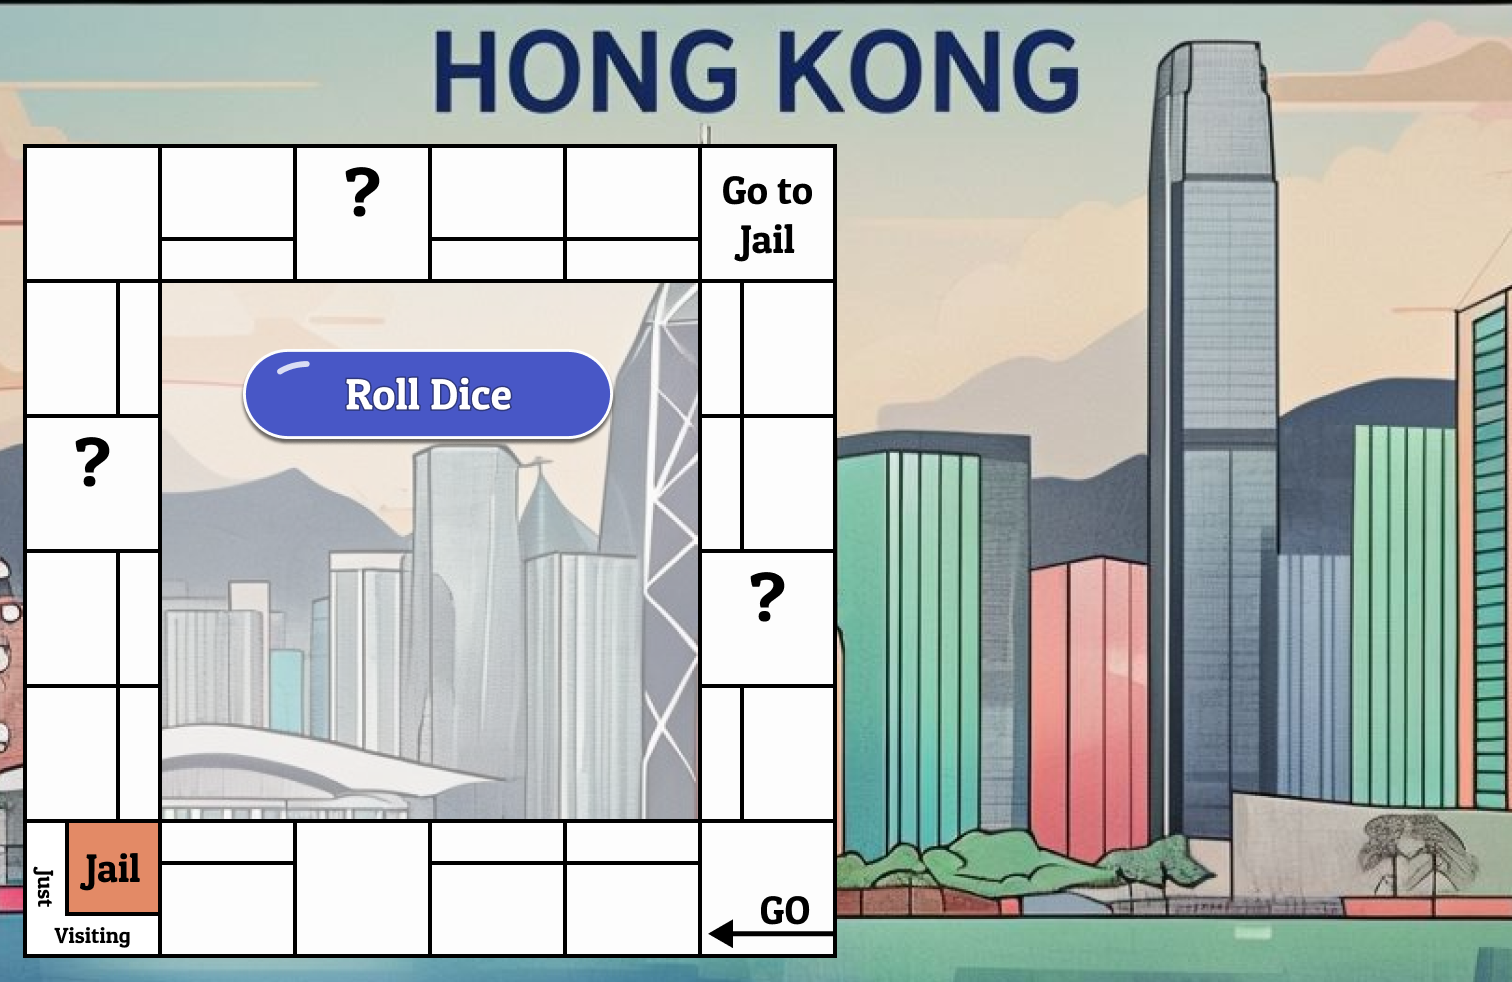
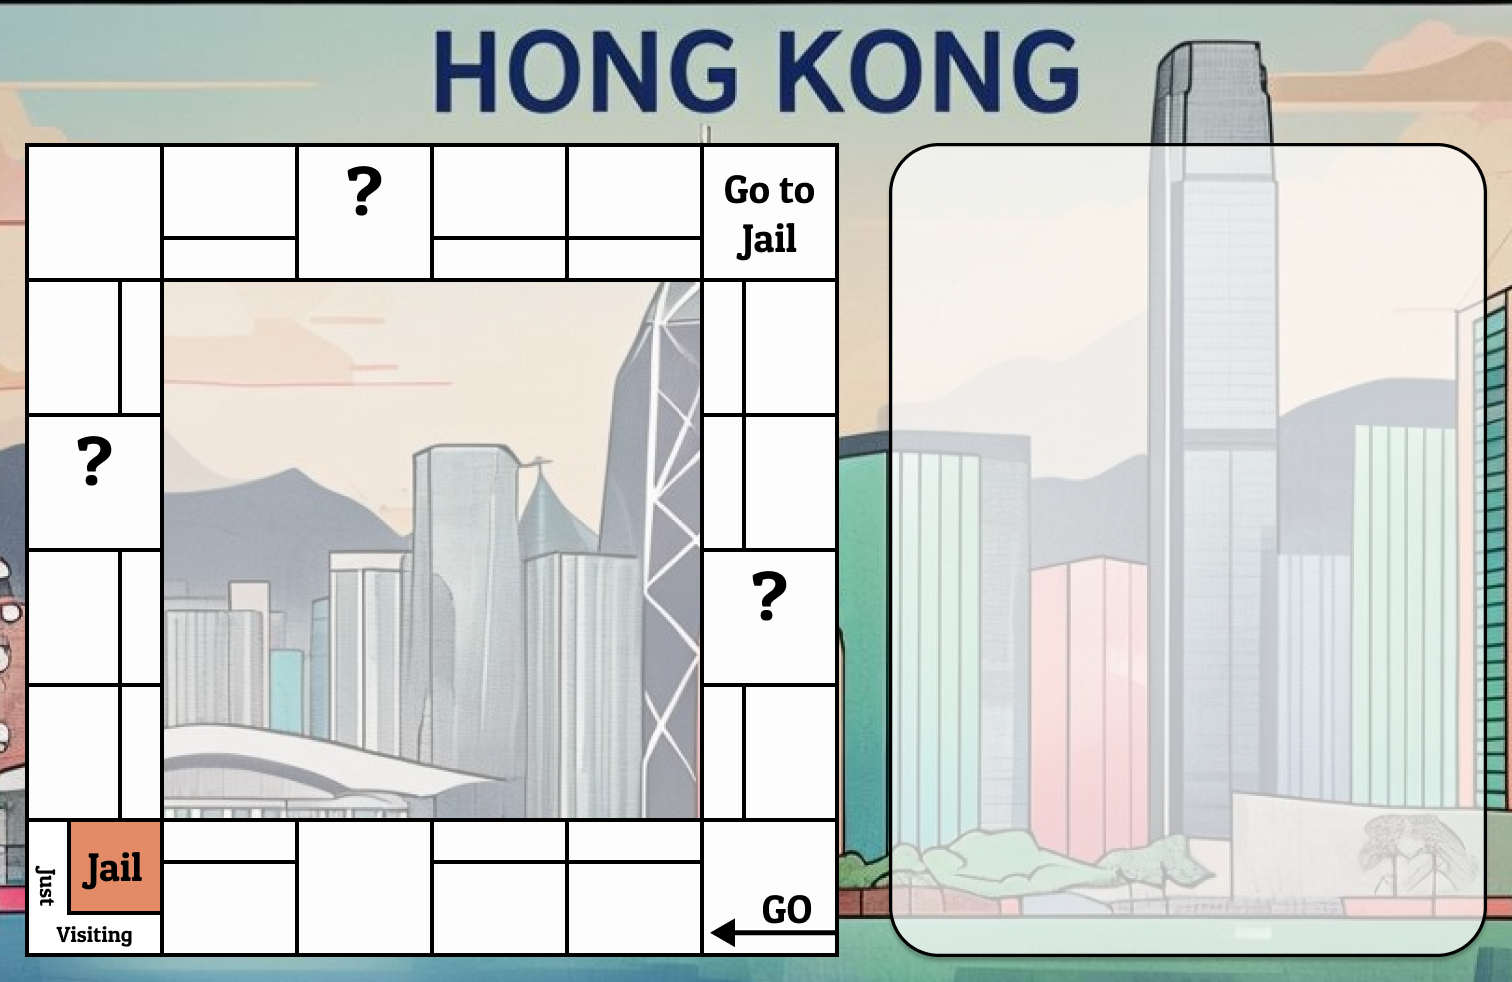
gameplay frame updates

diff --git a/src/View/DisplayManager.py b/src/View/DisplayManager.py
@@ -30,14 +30,20 @@ class DisplayManager:
         canvas.create_image(0, 0, anchor="nw", image=background)
         return canvas
 
+    @staticmethod
+    def calc_button_dim(button_image):
+        return button_image.width(), button_image.height()
+
 
 class GameplayFrame(DisplayManager):
-    def __init__(self, gui, controller):
-        # New Gameplay frame images
+    def __init__(self, gui):
         super().__init__(gui)
-        self.controller = controller # gets the game controller to retrieve information to setup the board
+
+        # New Gameplay frame images
         self.new_gameplay_frame_background = tk.PhotoImage(
             file=os.path.join(assets_base_path, "gameplay_frame/gameplay_frame_background.png"))
+        self.roll_dice_image = tk.PhotoImage(file = os.path.join(assets_base_path, "gameplay_frame/roll_dice.png"))
+        self.save_quit_image = tk.PhotoImage(file = os.path.join(assets_base_path, "gameplay_frame/save_quit.png"))
 
         # Gameboard tiles colors empty list, will get loaded from the Gameboard model
         self.tile_colors = []
@@ -45,35 +51,41 @@ class GameplayFrame(DisplayManager):
         # Tile color coordinates from anchor (reference point) "NW" corner
         self.__tile_color_coord = [
             None,
-            [563, 819],
-            [428, 819],
+            [565, 818],
+            [430, 818],
             None,
-            [158, 819],
+            [160, 818],
             None,
-            [116, 684],
-            [116, 549],
+            [118, 683],
+            [118, 548],
             None,
-            [116, 279],
+            [118, 278],
             None,
-            [563, 237],
+            [565, 236],
             None,
-            [428, 237],
-            [158, 237],
+            [430, 236],
+            [160, 236],
             None,
-            [698, 279],
-            [698, 414],
+            [700, 278],
+            [700, 413],
             None,
-            [698, 684]
+            [700, 683]
         ]
 
 # ------------------------------------# Game Play Frame #------------------------------------#
 
+    def set_color(self, pos, color):
+        self.tile_colors[pos] = color
+
+    def get_color_coord(self, pos):
+        return self.__tile_color_coord[pos]
+
+    # from the gameboard information loads the appropriate colors in the game frame
     def load_tile_colors(self):
         for i in range(0,20):
-            has_color = self.__tile_color_coord[i]
-            self.tile_colors.append(None) # initializes the empty position
-            if has_color:   # if it has color then pulls the color from the gameboard and modifies the new entry
-                self.modify_tile_color(self.controller.board.tiles[i].get_color(), i)
+            color = self.tile_colors[i]
+            if color:
+                self.modify_tile_color(color, i)
 
     # gets the information from the lists above and display all the tiles colors
     def overlay_tile_colors(self, canvas):
@@ -85,10 +97,47 @@ class GameplayFrame(DisplayManager):
                 tile_color = self.tile_colors[i]
                 canvas.create_image(x_pos, y_pos, anchor="nw", image=tile_color)
 
+    # rolls the dice
+    def roll_dice(self):
+        print("Rolling dice...")
+
+    def save_quit(self):
+        print("Saving quit...")
+
+    # called to set up the entire gameplay_frame
     def setup_new_gameplay_frame(self, frame):
         canvas = self.clear_widgets_create_canvas_set_background(frame, self.new_gameplay_frame_background)
+
+        # loads tile colors and displays them
         self.load_tile_colors()
         self.overlay_tile_colors(canvas)
+
+        # buttons dimensions
+        roll_dice_width, roll_dice_height = self.calc_button_dim(self.roll_dice_image)
+        save_quit_width, save_quit_height = self.calc_button_dim(self.save_quit_image)
+
+        # roll_dice_button & clickable area
+        # position based on center
+        roll_dice_x_pos = self.gui.image_width * 2 / 7
+        roll_dice_y_pos = self.gui.image_height * 2 / 5
+        roll_dice_button = canvas.create_image(roll_dice_x_pos, roll_dice_y_pos, anchor="center", image=self.roll_dice_image)
+        roll_dice_clickable_area = canvas.create_rectangle(
+            (roll_dice_x_pos - roll_dice_width // 2), (roll_dice_y_pos - roll_dice_height // 2),
+            (roll_dice_x_pos + roll_dice_width // 2), (roll_dice_y_pos + roll_dice_height // 2),
+            outline="", fill=""
+        )
+        canvas.tag_bind(roll_dice_clickable_area, "<Button-1>", lambda e:self.roll_dice())
+
+        # save_quit button & clickable area
+        save_quit_x_pos = self.gui.image_width * 10 / 14
+        save_quit_y_pos = self.gui.image_height * 9 / 10
+        save_quit_button = canvas.create_image(save_quit_x_pos, save_quit_y_pos, anchor="center", image=self.save_quit_image)
+        save_quit_clickable_area = canvas.create_rectangle(
+            (save_quit_x_pos - roll_dice_width // 2), (save_quit_y_pos - roll_dice_height // 2),
+            (save_quit_x_pos + roll_dice_width // 2), (save_quit_y_pos + roll_dice_height // 2),
+            outline="", fill=""
+        )
+        canvas.tag_bind(save_quit_clickable_area, "<Button-1>", lambda e:self.save_quit())
         return canvas
 
     #------------------------#
@@ -391,6 +440,8 @@ class NewGameFrame(DisplayManager):
         self.active_widgets.append(self.error_labels[idx])  # Track the label for later removal
 
     def check_and_start_game(self, input_handler):
+        self.gui.show_game_play_frame()  # TODO uncomment this line later
+
         # Retrieve all player names
         player_names = input_handler.get_all_player_names()
 
@@ -483,10 +534,10 @@ class MainMenuFrame(DisplayManager):
         button_y_positions = [self.gui.image_height * 0.55, self.gui.image_height * 0.70, self.gui.image_height * 0.85]
 
         # Calculate dimensions for each button to set clickable areas
-        new_game_width, new_game_height = self.new_game_image.width(), self.new_game_image.height()
-        load_game_width, load_game_height = self.load_game_image.width(), self.load_game_image.height()
-        exit_width, exit_height = self.exit_image.width(), self.exit_image.height()
-        info_width, info_height = self.info_image.width(), self.info_image.height()
+        new_game_width, new_game_height = self.calc_button_dim(self.new_game_image)
+        load_game_width, load_game_height = self.calc_button_dim(self.load_game_image)
+        exit_width, exit_height = self.calc_button_dim(self.exit_image)
+        info_width, info_height = self.calc_button_dim(self.info_image)
 
         # "New Game" button and clickable area
         new_game_button = canvas.create_image(self.gui.image_width // 2, button_y_positions[0],

diff --git a/src/View/GUI.py b/src/View/GUI.py
@@ -32,7 +32,7 @@ class GUI(tk.Tk):
         self.new_game_frame = NewGameFrame(self)
         self.load_game_frame = LoadGameFrame(self)
         #TODO <Remove the controller object from the GameplayFrame>
-        #self.gameplay_frame = GameplayFrame(self, controller)
+        self.gameplay_frame = GameplayFrame(self)
         self.input_handler = InputHandler()
 
         # Set up frames
@@ -41,7 +41,6 @@ class GUI(tk.Tk):
         self.show_new_game_frame()
         self.show_edit_board_frame()
         self.show_load_game_frame()
-        #self.show_game_play_frame() TODO uncomment this line later
 
         # Initially show the main menu
         self.show_frame("main_menu")
@@ -80,14 +79,10 @@ class GUI(tk.Tk):
     def show_game_play_frame(self):
         frame = tk.Frame(self)
         self.frames["gameplay"] = frame
-        #self.game_canvas = self.gameplay_frame.setup_new_gameplay_frame(frame) TODO uncomment this line later
+        self.game_canvas = self.gameplay_frame.setup_new_gameplay_frame(frame) #TODO uncomment this line later
 
     def show_frame(self, frame_name):
         for frame in self.frames.values():
             frame.place_forget()
         self.frames[frame_name].place(x=0, y=0, width=self.image_width, height=self.image_height)
 
-# Run the GUI
-gui = GUI()
-#controller = GameController(gui)
-#gui.mainloop()

diff --git a/src/Controller/GameController.py b/src/Controller/GameController.py
@@ -21,6 +21,9 @@ class GameController:
         self.input_handler = InputHandler()
         self.click_var = tk.StringVar()
 
+        # button_config
+        self.pass_color_information()
+
     def get_player_list(self):
         return self.player_list
 
@@ -50,6 +53,14 @@ class GameController:
 
     def set_remove_last_round(self, remove_last_round):
         self.game_logic.set_removed_last_round(remove_last_round)
+
+    def pass_color_information(self):
+        for i in range(0, 20):
+            self.gui.gameplay_frame.tile_colors.append(None)
+            has_color = self.gui.gameplay_frame.get_color_coord(i)
+            if has_color:
+                color = self.board.tiles[i].get_color()
+                self.gui.gameplay_frame.set_color(i, color)
 
     # TODO By Kent: We need to program to detect the click events from the users. The click will call the functions for us. """
     def start_game(self):

diff --git a/play_game.py b/play_game.py
@@ -1,4 +1,6 @@
 from src.Controller.GameController import *
 
+# Run the GUI
+gui = GUI()
 controller = GameController(gui)
 gui.mainloop()
